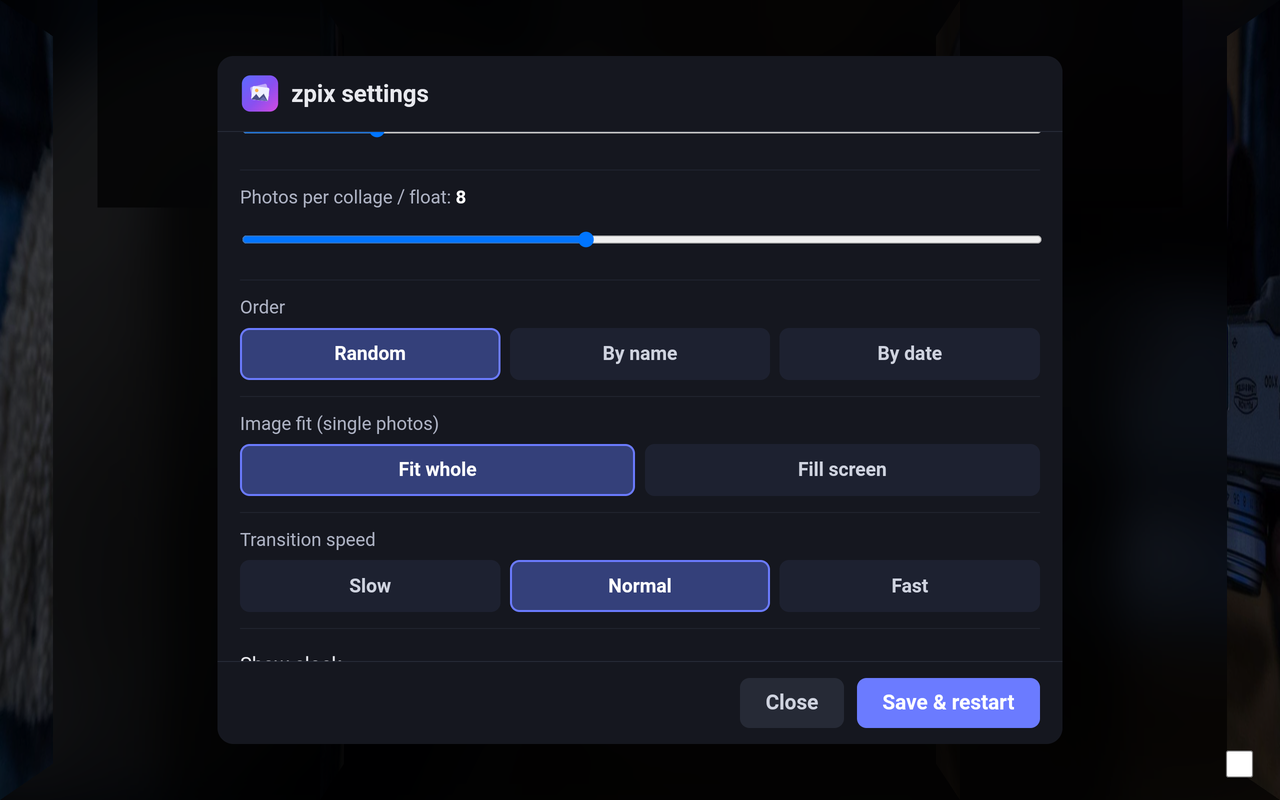
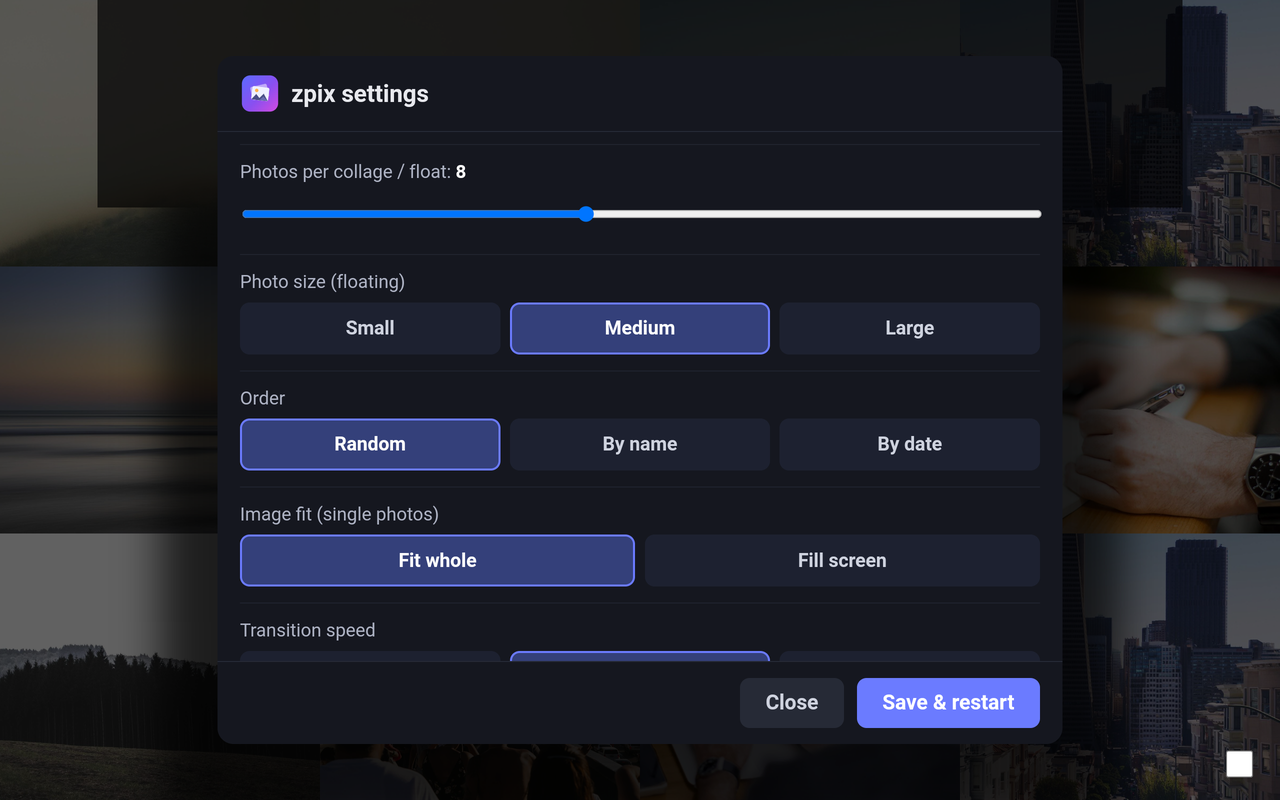
Refresh README screenshots (origami grid wall, bigger floating)
Generic royalty-free placeholder photos.

diff --git a/README.md b/README.md
@@ -24,12 +24,15 @@ It's a tiny native shell hosting a WebView; the slideshow engine is plain HTML/C
 
 <table>
   <tr>
-    <td align="center"><img src="docs/shot-collage.png" alt="Scattered collage"><br><sub>Scattered collage</sub></td>
+    <td align="center"><img src="docs/shot-origami.png" alt="Origami grid wall"><br><sub>Origami — grid of tiles that fold to new photos</sub></td>
     <td align="center"><img src="docs/shot-floating.png" alt="Floating photos"><br><sub>Floating photos</sub></td>
   </tr>
   <tr>
+    <td align="center"><img src="docs/shot-collage.png" alt="Scattered collage"><br><sub>Scattered collage</sub></td>
     <td align="center"><img src="docs/shot-settings.png" alt="Settings"><br><sub>Settings</sub></td>
-    <td align="center"><img src="docs/shot-splash.png" alt="Splash screen"><br><sub>Splash screen</sub></td>
+  </tr>
+  <tr>
+    <td align="center" colspan="2"><img src="docs/shot-splash.png" width="420" alt="Splash screen"><br><sub>Splash screen</sub></td>
   </tr>
 </table>
 